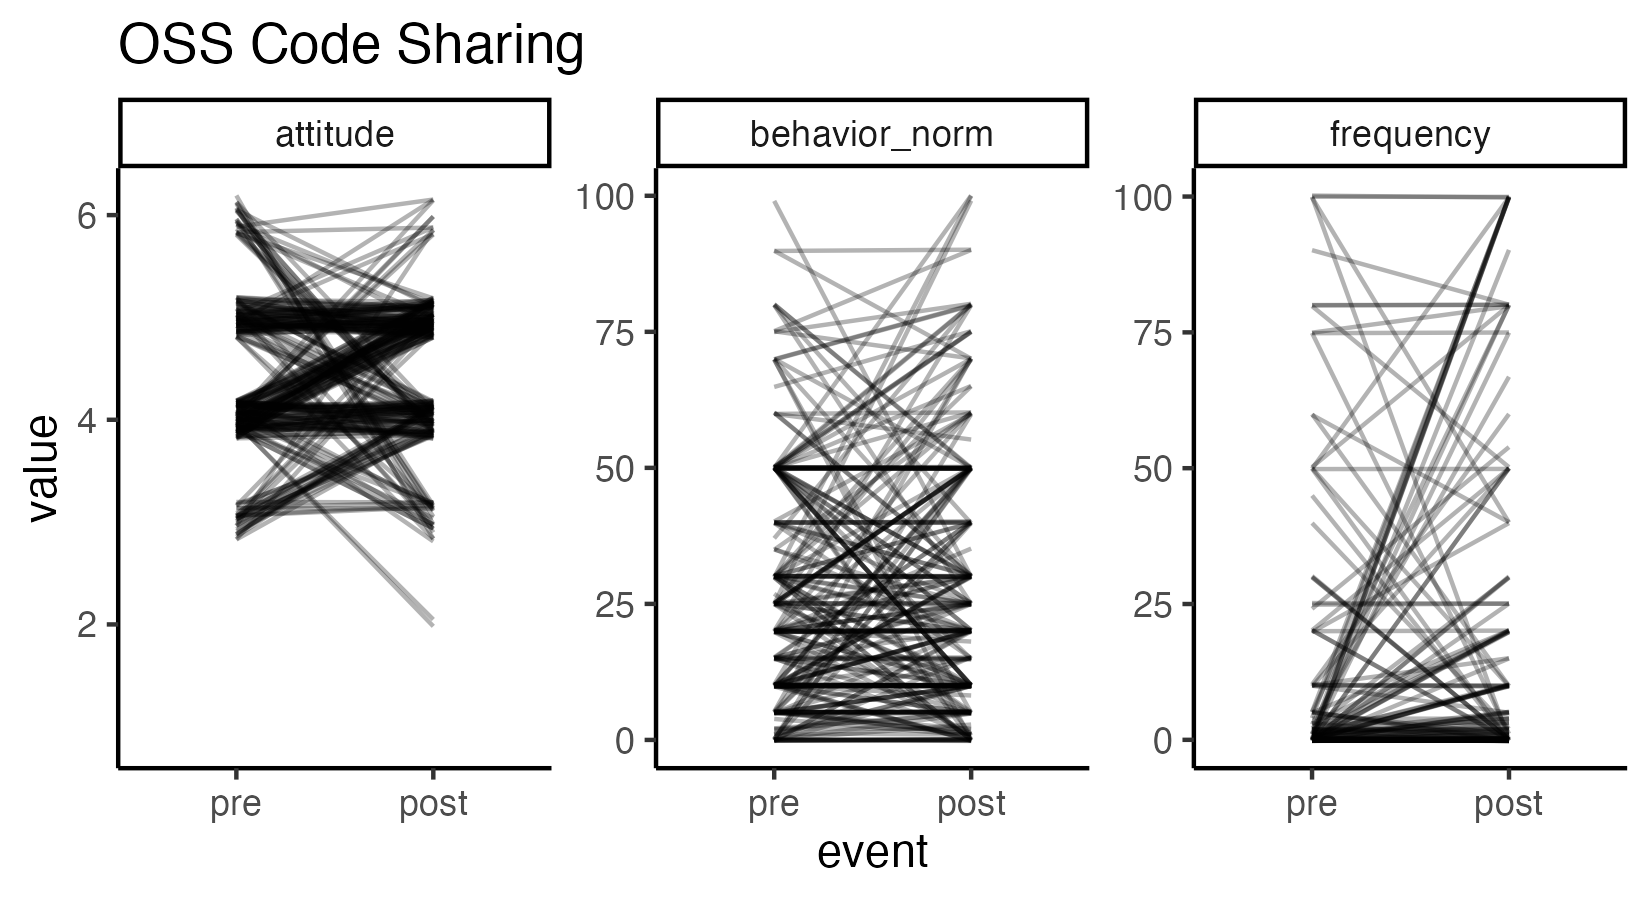
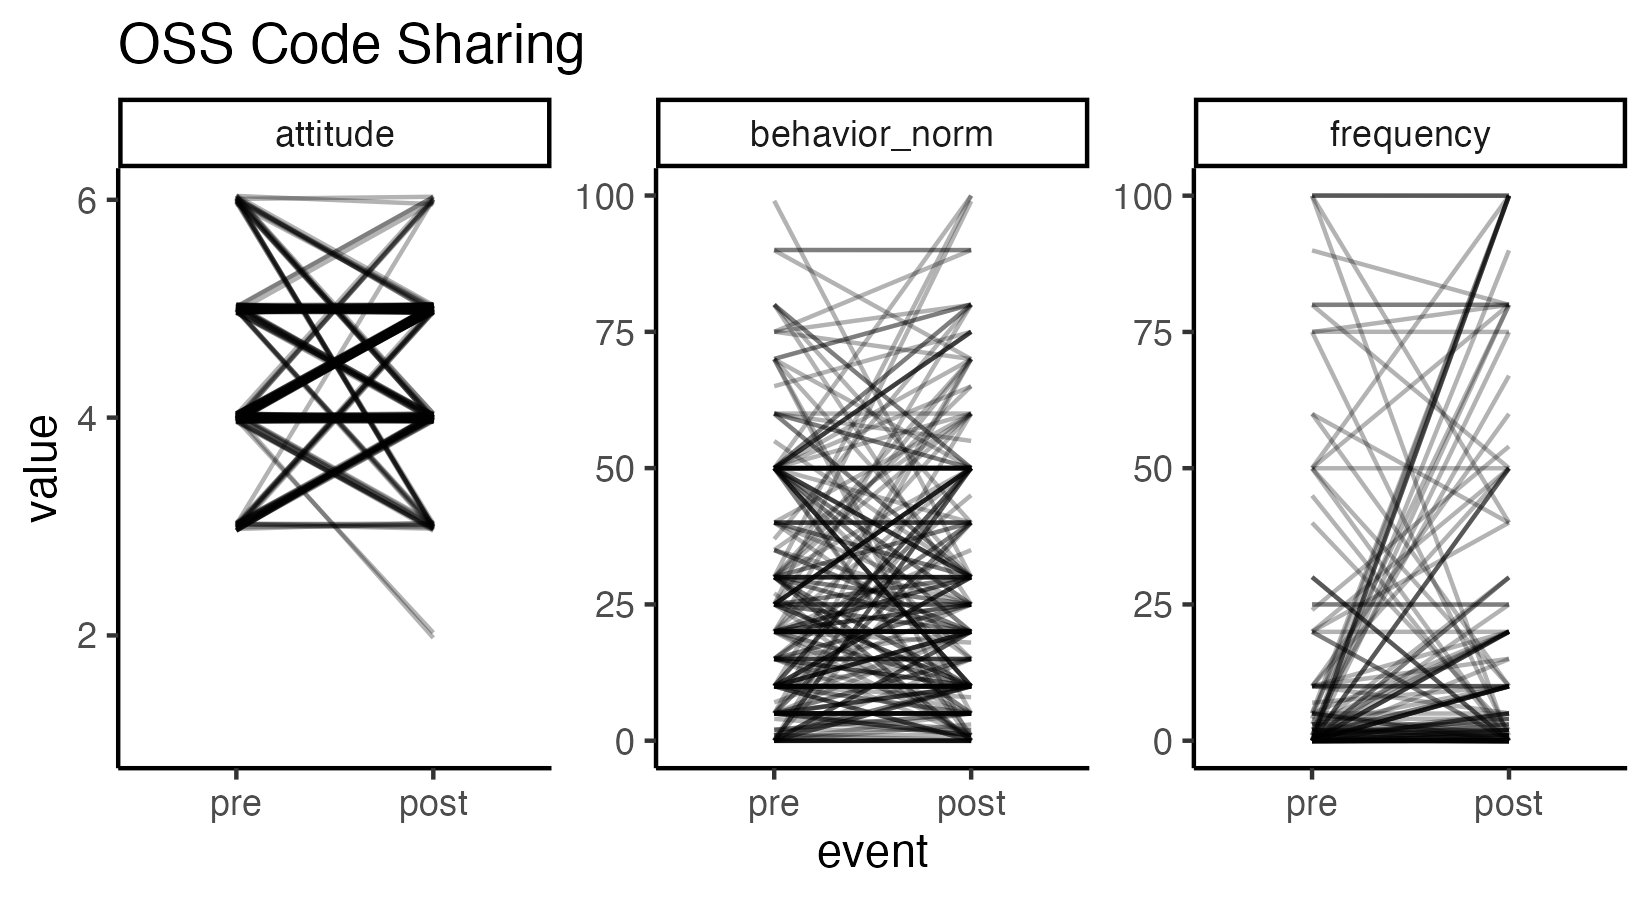
Switch to deid data

diff --git a/reports/notebooks/oss_exploration.md b/reports/notebooks/oss_exploration.md
@@ -1,7 +1,7 @@
 Open Scholarship Survey Exploration
 ================
 Rose Hartman
-2023-12-11
+2024-01-12
 
 ## Some notes about this report
 
@@ -29,17 +29,17 @@ plot to plot.
 
 | name          |       pre |      post |
 |:--------------|----------:|----------:|
-| attitude      |  4.356415 |  4.451852 |
-| behavior_norm | 27.063596 | 28.166667 |
-| frequency     |  7.339056 | 11.729412 |
+| attitude      |  4.356415 |  4.461538 |
+| behavior_norm | 27.063596 | 28.279562 |
+| frequency     |  7.339056 | 11.418440 |
 
 OSS Code Sharing
 
 | name          |      pre |      post |
 |:--------------|---------:|----------:|
-| attitude      |  4.34898 |  4.431298 |
-| behavior_norm | 32.93763 | 32.405200 |
-| frequency     | 12.68577 | 15.400794 |
+| attitude      |  4.34898 |  4.427083 |
+| behavior_norm | 32.93763 | 32.427437 |
+| frequency     | 12.68577 | 14.974910 |
 
 OSS Data Sharing
 
@@ -50,13 +50,13 @@ Is there significant change pre to post in the OSS Code Sharing items?
     ##  Paired t-test
     ## 
     ## data:  this_df$post and this_df$pre
-    ## t = 1.3646, df = 269, p-value = 0.1735
+    ## t = 1.7149, df = 298, p-value = 0.08739
     ## alternative hypothesis: true difference in means is not equal to 0
     ## 95 percent confidence interval:
-    ##  -0.03772076  0.20809113
+    ##  -0.01480246  0.21547135
     ## sample estimates:
     ## mean of the differences 
-    ##              0.08518519 
+    ##               0.1003344 
     ## 
     ## 
     ## $frequency
@@ -64,13 +64,13 @@ Is there significant change pre to post in the OSS Code Sharing items?
     ##  Paired t-test
     ## 
     ## data:  this_df$post and this_df$pre
-    ## t = 2.7326, df = 246, p-value = 0.00674
+    ## t = 2.9793, df = 273, p-value = 0.003149
     ## alternative hypothesis: true difference in means is not equal to 0
     ## 95 percent confidence interval:
-    ##  1.154094 7.113113
+    ##  1.391503 6.812876
     ## sample estimates:
     ## mean of the differences 
-    ##                4.133603 
+    ##                 4.10219 
     ## 
     ## 
     ## $behavior_norm
@@ -78,13 +78,13 @@ Is there significant change pre to post in the OSS Code Sharing items?
     ##  Paired t-test
     ## 
     ## data:  this_df$post and this_df$pre
-    ## t = 1.2864, df = 234, p-value = 0.1996
+    ## t = 1.4402, df = 258, p-value = 0.151
     ## alternative hypothesis: true difference in means is not equal to 0
     ## 95 percent confidence interval:
-    ##  -1.015496  4.836772
+    ##  -0.731995  4.717323
     ## sample estimates:
     ## mean of the differences 
-    ##                1.910638
+    ##                1.992664
 
 Is there significant change pre to post in the OSS Data Sharing items?
 
@@ -93,13 +93,13 @@ Is there significant change pre to post in the OSS Data Sharing items?
     ##  Paired t-test
     ## 
     ## data:  this_df$post and this_df$pre
-    ## t = 1.3606, df = 260, p-value = 0.1748
+    ## t = 1.8759, df = 286, p-value = 0.06169
     ## alternative hypothesis: true difference in means is not equal to 0
     ## 95 percent confidence interval:
-    ##  -0.03598656  0.19690610
+    ##  -0.00514855  0.21420778
     ## sample estimates:
     ## mean of the differences 
-    ##              0.08045977 
+    ##               0.1045296 
     ## 
     ## 
     ## $frequency
@@ -107,13 +107,13 @@ Is there significant change pre to post in the OSS Data Sharing items?
     ##  Paired t-test
     ## 
     ## data:  this_df$post and this_df$pre
-    ## t = 1.6736, df = 247, p-value = 0.09548
+    ## t = 1.9991, df = 273, p-value = 0.04659
     ## alternative hypothesis: true difference in means is not equal to 0
     ## 95 percent confidence interval:
-    ##  -0.4714359  5.8020811
+    ##  0.0442911 5.7805264
     ## sample estimates:
     ## mean of the differences 
-    ##                2.665323 
+    ##                2.912409 
     ## 
     ## 
     ## $behavior_norm
@@ -121,21 +121,21 @@ Is there significant change pre to post in the OSS Data Sharing items?
     ##  Paired t-test
     ## 
     ## data:  this_df$post and this_df$pre
-    ## t = 0.26378, df = 240, p-value = 0.7922
+    ## t = 0.34595, df = 266, p-value = 0.7297
     ## alternative hypothesis: true difference in means is not equal to 0
     ## 95 percent confidence interval:
-    ##  -2.952244  3.865107
+    ##  -2.602200  3.711564
     ## sample estimates:
     ## mean of the differences 
-    ##               0.4564315
+    ##               0.5546816
 
-    ## Warning: Removed 102 rows containing non-finite values (stat_bin).
+    ## Warning: Removed 103 rows containing non-finite values (stat_bin).
 
-    ## Warning: Removed 102 rows containing non-finite values (stat_boxplot).
+    ## Warning: Removed 103 rows containing non-finite values (stat_boxplot).
 
-    ## Warning: Removed 102 rows containing missing values (geom_point).
+    ## Warning: Removed 103 rows containing missing values (geom_point).
 
-    ## Warning: Removed 55 row(s) containing missing values (geom_path).
+    ## Warning: Removed 53 row(s) containing missing values (geom_path).
 
 ![](../figures/oss_data_sharing_hist.png)
 
@@ -143,13 +143,13 @@ Is there significant change pre to post in the OSS Data Sharing items?
 
 ![](../figures/oss_data_sharing_line.png)
 
-    ## Warning: Removed 114 rows containing non-finite values (stat_bin).
+    ## Warning: Removed 120 rows containing non-finite values (stat_bin).
 
-    ## Warning: Removed 114 rows containing non-finite values (stat_boxplot).
+    ## Warning: Removed 120 rows containing non-finite values (stat_boxplot).
 
-    ## Warning: Removed 114 rows containing missing values (geom_point).
+    ## Warning: Removed 120 rows containing missing values (geom_point).
 
-    ## Warning: Removed 53 row(s) containing missing values (geom_path).
+    ## Warning: Removed 55 row(s) containing missing values (geom_path).
 
 ![](../figures/oss_code_sharing_hist.png)
 
